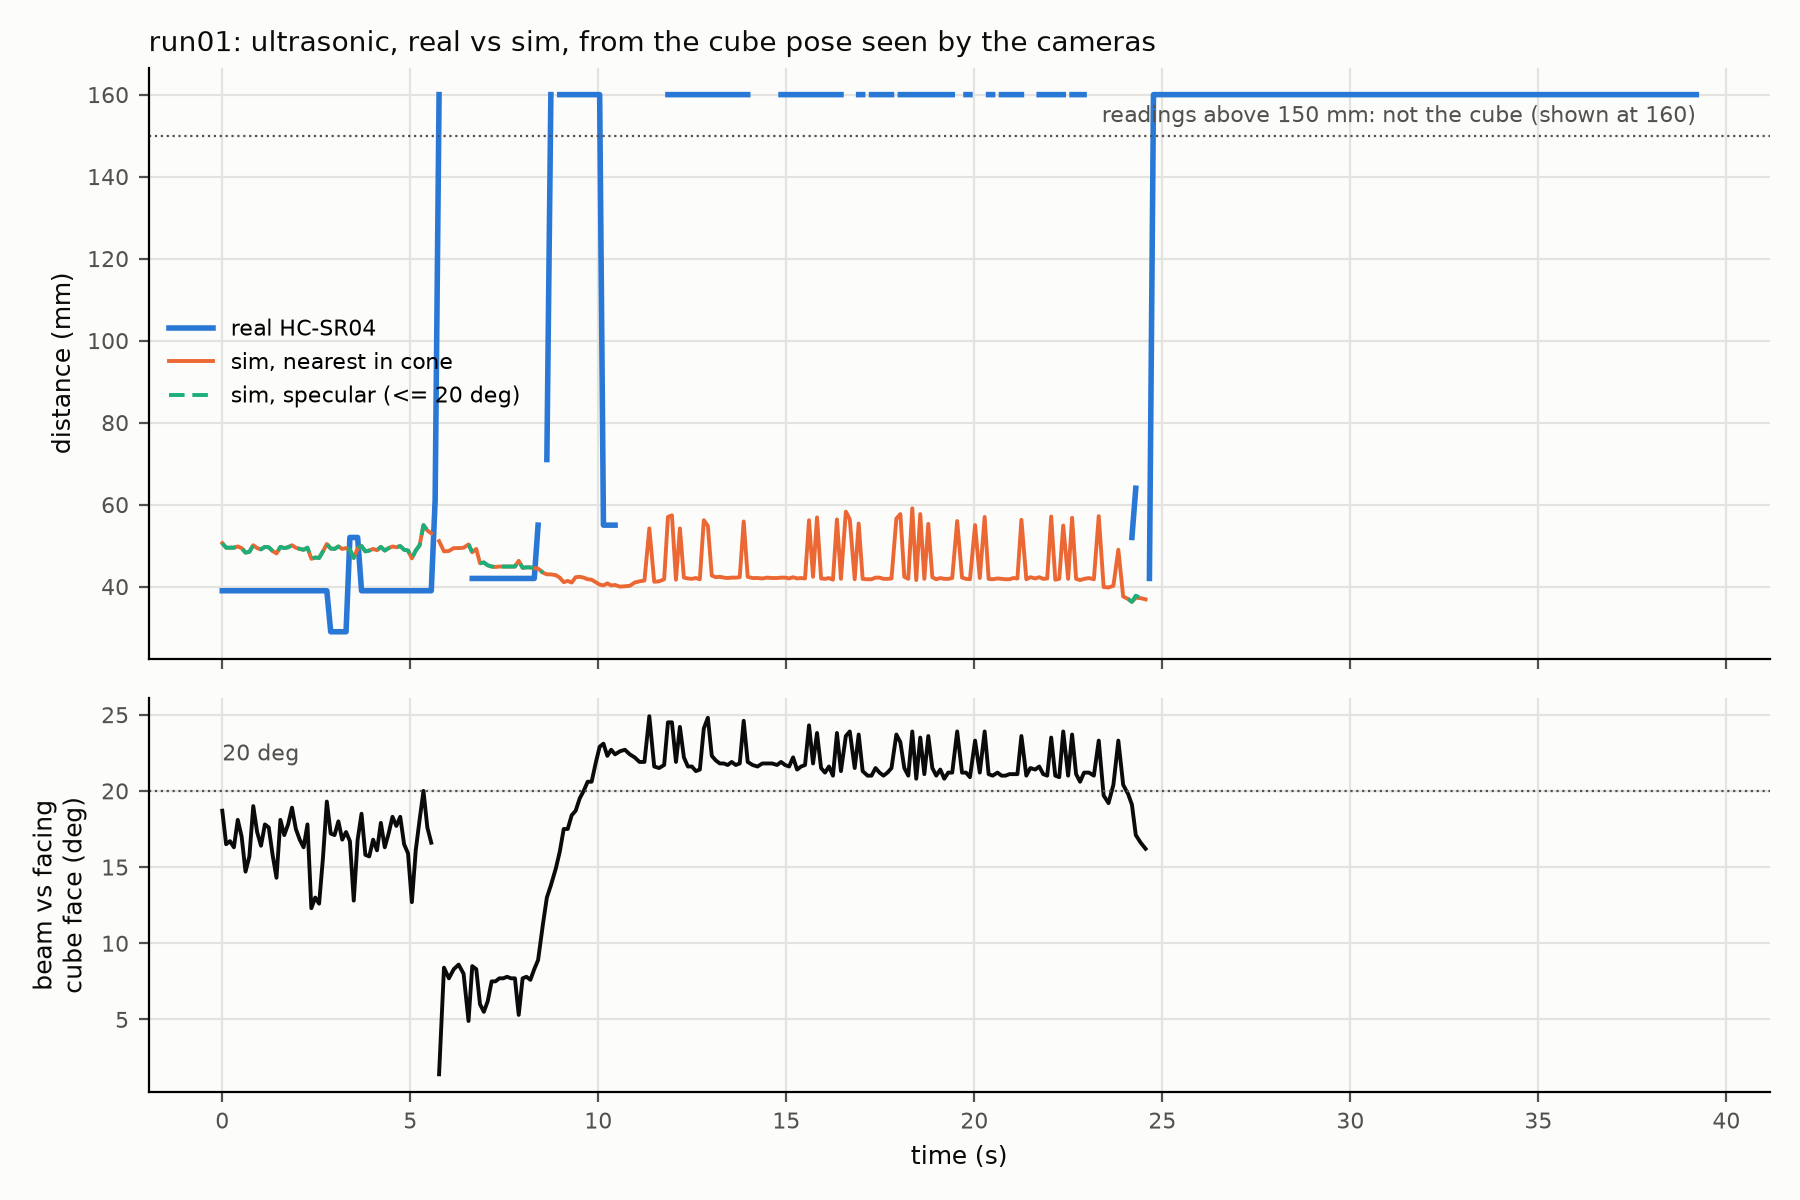
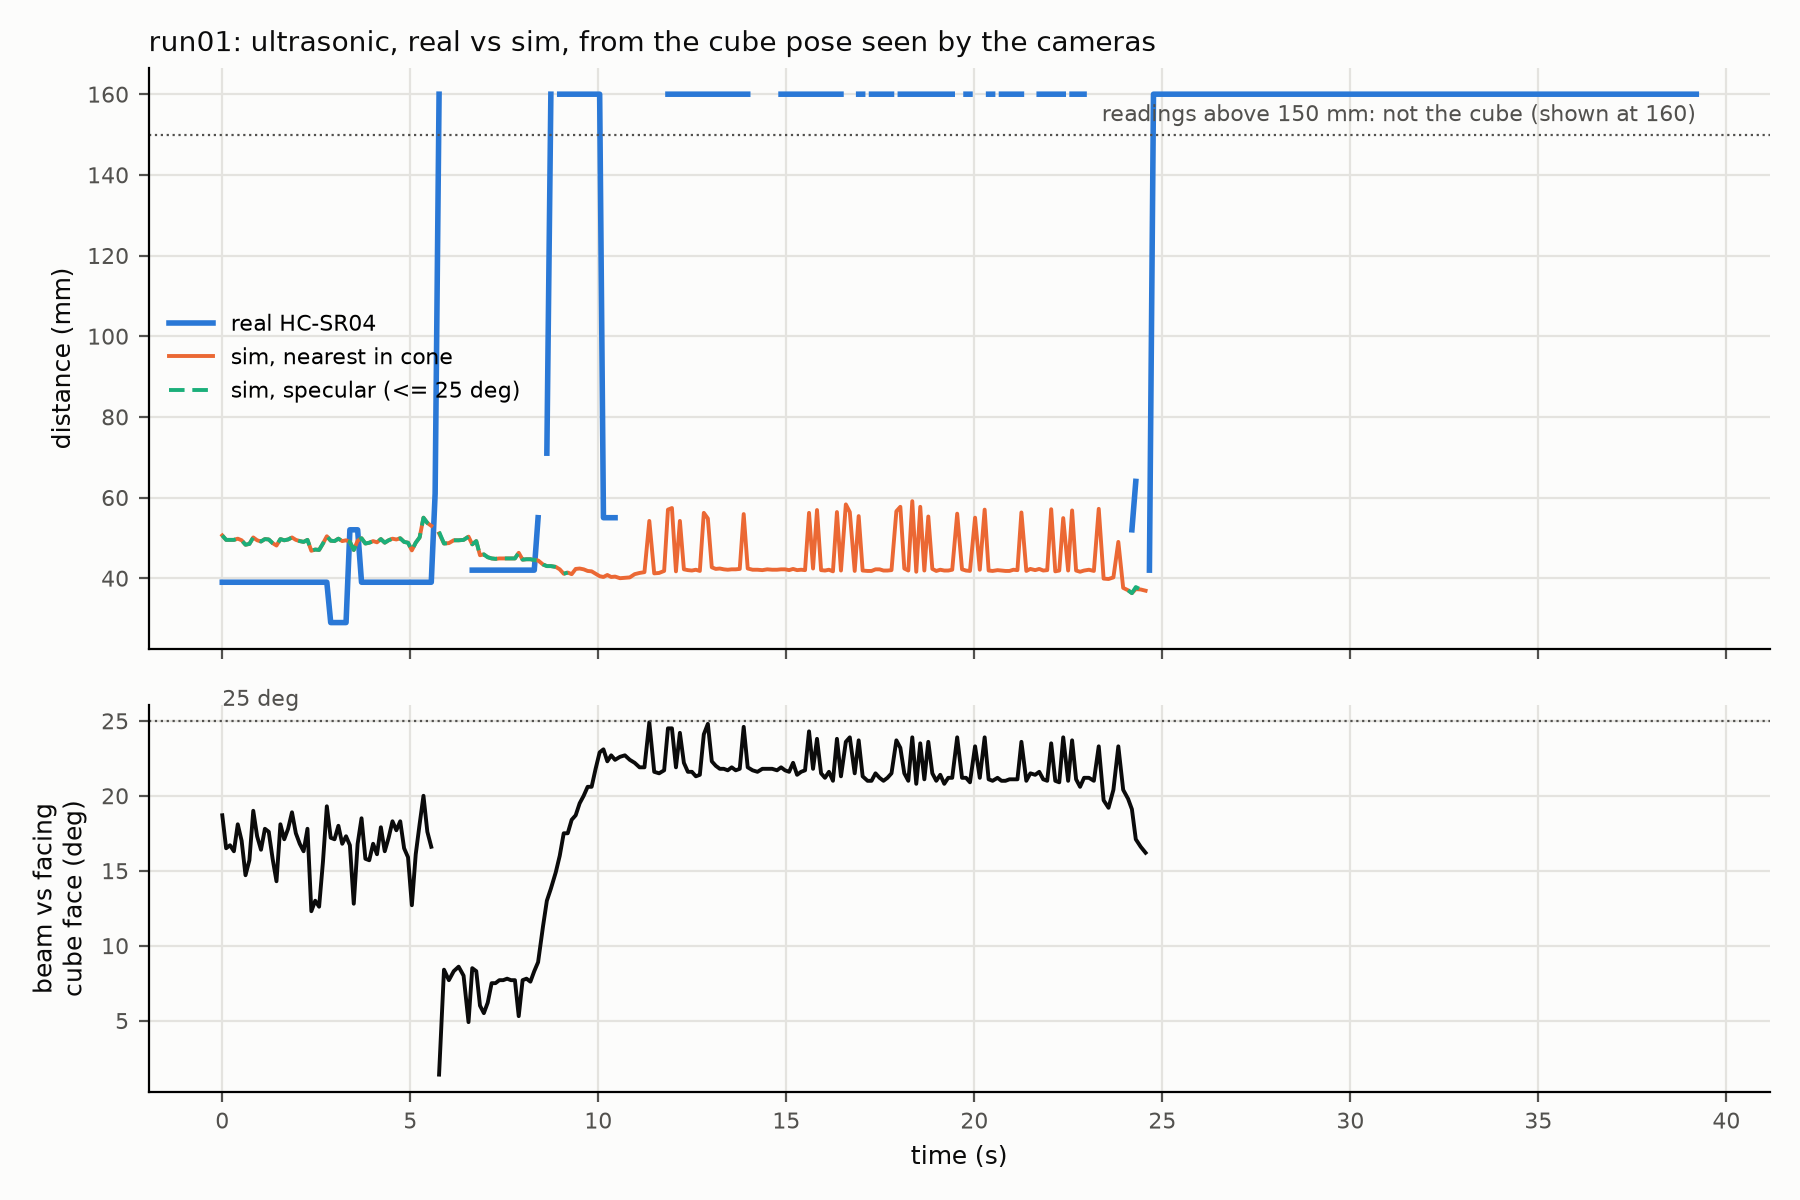
real2sim: ultrasonic incidence threshold from cube-turning recordings
- angle02 (cube turned by hand at ~7 cm): real sensor sees the cube 83% at
  10-20 deg, 39% at 25-30 deg, 4% at 35-40 deg; angle01 was in the dead
  zone (~2 cm) and is excluded (analysis drops readings < 25 mm)
- threshold_sweep.py over run01 + angle02: sees-cube agreement 88% at a
  25 deg per-ray limit (20 deg 81%, no limit 46%) -> rig.yaml
  ultrasonic.max_incidence_deg = 25, used by process.py
- datasets regenerated: run01 91%, angle02 88%; angle02 distances when
  both see the cube: median -0.1 mm, MAE 7.3 mm
- incidence_analysis.py figure, notes and HTML record updated

diff --git a/docs/real2sim_camera_calibration.html b/docs/real2sim_camera_calibration.html
@@ -444,6 +444,32 @@ footer { color: var(--muted); font-size: 13px; border-top: 1px solid var(--line)
     <li>阈值未被确定：倾斜阶段集中在 21–25°，能测到的阶段 ≤ 20°；θ = 18° / 20° / 22° 时一致率 86% / 88% / 50%，需要覆盖更多角度的数据。</li>
     <li>距离偏差 +10 mm：方块位置来自两相机融合，x 方向约 10 mm 系统偏差（两相机之间 5–10 mm 的不一致）；直接用 side 画面测距时误差在 ±4 mm 内。</li>
   </ul>
+  <h3>入射角阈值（angle01 / angle02）</h3>
+  <p>方块放在手掌上，用手捏住远离传感器的一侧，绕竖直方向在 ±45° 之间慢慢来回转，同步录 60 秒。angle01 作废：方块约 2 cm、大部分读数是盲区饱和值 17 / 20 mm（分析现在自动排除 &lt; 25 mm 的读数）。angle02：方块约 7 cm，真实读数中位数 74 mm。</p>
+  <div class="tbl"><table>
+    <tr><th>正对面与光束夹角</th><th>真实测到方块的比例</th></tr>
+    <tr><td>10–20°</td><td class="num">83%</td></tr>
+    <tr><td>20–25°</td><td class="num">71%</td></tr>
+    <tr><td>25–30°</td><td class="num">39%</td></tr>
+    <tr><td>35–40°</td><td class="num">4%</td></tr>
+  </table></div>
+  <figure>
+    <img src="figures/real2sim/angle02_timeline.png" alt="angle02 时间线" tabindex="0" loading="lazy">
+    <figcaption><b>图 K · angle02</b>。入射角超过阈值时真实读到远处，入射角模型判为无回波，最近距离模型仍以为测到方块。</figcaption>
+  </figure>
+  <figure>
+    <img src="figures/real2sim/incidence_angle02.png" alt="入射角与回波" tabindex="0" loading="lazy">
+    <figcaption><b>图 L</b>。左：各角度区间真实测到方块的比例；右："夹角 ≤ θ 才有回波"规则与真实的一致率。</figcaption>
+  </figure>
+  <div class="tbl"><table>
+    <tr><th>sim 射线阈值</th><th>run01（约 4 cm）</th><th>angle02（约 7 cm）</th><th>合计</th></tr>
+    <tr><td>15°</td><td class="num">94%</td><td class="num">63%</td><td class="num">72%</td></tr>
+    <tr><td>20°</td><td class="num">95%</td><td class="num">75%</td><td class="num">81%</td></tr>
+    <tr><td><b>25°</b></td><td class="num">90%</td><td class="num"><b>88%</b></td><td class="num"><b>88%</b></td></tr>
+    <tr><td>30°</td><td class="num">90%</td><td class="num">87%</td><td class="num">88%</td></tr>
+    <tr><td>不限制（最近距离）</td><td class="num">36%</td><td class="num">51%</td><td class="num">46%</td></tr>
+  </table></div>
+  <p>采用 <b>25°</b>（<code>rig.yaml</code> 的 <code>ultrasonic.max_incidence_deg</code>），样本内选出，需新数据验证。重新生成后：run01 一致 91%，angle02 一致 88%；都测到时 angle02 sim − 真实中位数 −0.1 mm（MAE 7.3 mm），run01 为 +9.8 mm（靠近手腕处两相机融合偏差更明显）。</p>
   <p>采集时注意：相机和串口同时只能被一个程序打开；不要大幅移动手腕，手和前臂塔上的传感器会一起移动，相机外参和传感器位置都会失效。</p>
 </section>
 

diff --git a/real2sim/ultrasonic/incidence_analysis.py b/real2sim/ultrasonic/incidence_analysis.py
@@ -1,0 +1,96 @@
+"""How the real HC-SR04 echo depends on the angle between the beam and the cube face.
+
+    python real2sim/ultrasonic/incidence_analysis.py angle01 [run01 ...]
+
+Reads real2sim/data/recordings/<name>/dataset.csv (process.py). Prints, per 5-degree bin of
+face_incidence_deg, how often the real sensor saw the cube (reading <= 150 mm), the
+agreement of a threshold rule "echo if incidence <= th" for each th, and writes
+docs/figures/real2sim/incidence_<names>.png.
+"""
+
+from __future__ import annotations
+
+import csv
+import sys
+from pathlib import Path
+
+import numpy as np
+
+HERE = Path(__file__).resolve().parent
+sys.path.insert(0, str(HERE.parent / "cameras"))
+import camlib as C  # noqa: E402
+
+BLUE, ORANGE, INK, INK2, GRID, SURF = "#2a78d6", "#eb6834", "#0b0b0b", "#52514e", "#e4e3df", "#fcfcfb"
+
+
+def main() -> None:
+    names = sys.argv[1:]
+    rows, dead = [], 0
+    for n in names:
+        for r in csv.DictReader(open(C.DATA_DIR / "recordings" / n / "dataset.csv", newline="")):
+            if r["cube_found"] != "1":
+                continue
+            # dead zone: below ~2.5 cm the sensor reports a constant 17-20 mm whatever the angle
+            if r["us_mm"] and float(r["us_mm"]) < 25:
+                dead += 1
+                continue
+            rows.append(r)
+    print(f"dropped {dead} samples in the sensor's dead zone (reading < 25 mm)")
+    if not rows:
+        raise SystemExit("nothing left outside the dead zone")
+    inc = np.array([float(r["face_incidence_deg"]) for r in rows])
+    sees = np.array([r["real_sees_cube"] == "1" for r in rows])
+    dist = np.array([float(r["us_mm"]) if r["us_mm"] else np.nan for r in rows])
+    print(f"{len(rows)} samples with the cube found ({', '.join(names)}); incidence {inc.min():.1f}..{inc.max():.1f} deg")
+    edges = np.arange(0, np.ceil(inc.max() / 5) * 5 + 5, 5)
+    centres, frac, counts = [], [], []
+    for lo, hi in zip(edges[:-1], edges[1:]):
+        sel = (inc >= lo) & (inc < hi)
+        if sel.sum():
+            centres.append((lo + hi) / 2)
+            frac.append(sees[sel].mean())
+            counts.append(int(sel.sum()))
+            print(f"  {lo:4.0f}-{hi:<3.0f} deg: n={sel.sum():4d}  real sees cube {sees[sel].mean():4.0%}")
+    ths = np.arange(2, 46, 1.0)
+    agr = np.array([np.mean((inc <= th) == sees) for th in ths])
+    best = ths[int(np.argmax(agr))]
+    good = ths[agr >= agr.max() - 0.02]
+    print(f"threshold rule 'echo if incidence <= th': best th = {best:.0f} deg (agreement {agr.max():.0%}); "
+          f"within 2 points of best: {good.min():.0f}..{good.max():.0f} deg")
+
+    import matplotlib
+    matplotlib.use("Agg")
+    import matplotlib.pyplot as plt
+    fig, (a1, a2) = plt.subplots(1, 2, figsize=(10, 4.2), dpi=200)
+    fig.patch.set_facecolor(SURF)
+    a1.bar(centres, np.array(frac) * 100, width=4.2, color=BLUE)
+    for c, f_, n in zip(centres, frac, counts):
+        a1.text(c, f_ * 100 + 2, f"n={n}", ha="center", fontsize=7, color=INK2)
+    a1.set_xlabel("beam vs facing cube face (deg)", color=INK, fontsize=9)
+    a1.set_ylabel("real sensor sees the cube (%)", color=INK, fontsize=9)
+    a1.set_ylim(0, 110)
+    a1.set_title("Echo from the cube vs incidence angle", loc="left", color=INK, fontsize=10)
+    a2.plot(ths, agr * 100, color=ORANGE, lw=2)
+    a2.axvline(best, color=INK2, lw=0.8, ls=":")
+    a2.text(best + 0.8, agr.min() * 100 + 2, f"best {best:.0f} deg", fontsize=8, color=INK2)
+    a2.set_xlabel("threshold th (deg)", color=INK, fontsize=9)
+    a2.set_ylabel("rule 'echo if angle <= th' agrees (%)", color=INK, fontsize=9)
+    a2.set_title("Choosing the sim threshold", loc="left", color=INK, fontsize=10)
+    for ax in (a1, a2):
+        ax.set_facecolor(SURF)
+        ax.grid(color=GRID, lw=0.8)
+        ax.set_axisbelow(True)
+        for s in ("top", "right"):
+            ax.spines[s].set_visible(False)
+        ax.tick_params(colors=INK2, labelsize=8)
+    fig.tight_layout()
+    out = C.REPO_ROOT / "docs" / "figures" / "real2sim" / f"incidence_{'_'.join(names)}.png"
+    fig.savefig(out, facecolor=SURF)
+    print("wrote", out)
+    seen = sees & ~np.isnan(dist)
+    if seen.any():
+        print(f"when the real sensor sees the cube: reading {np.nanmedian(dist[seen]):.0f} mm median")
+
+
+if __name__ == "__main__":
+    main()

diff --git a/real2sim/recording/process.py b/real2sim/recording/process.py
@@ -13,8 +13,8 @@ Columns of dataset.csv:
   green_up_deg        angle between the green face (sim red face) normal and world up
   face_incidence_deg  angle between the ultrasonic beam and the cube face that faces it
   sim_nearest_mm      sim: nearest hit in the 15 deg cone (calibrated offset / dead zone)
-  sim_specular_mm     sim: same, but a ray only echoes if it meets the face within 20 deg
-                      of its normal (empty = no echo)
+  sim_specular_mm     sim: same, but a ray only echoes if it meets the face within
+                      rig.yaml ultrasonic.max_incidence_deg (25) of its normal (empty = no echo)
   real_sees_cube, sim_nearest_sees_cube, sim_specular_sees_cube     reading <= 150 mm
 The sim rays only see the cube (the sim hand is in its default pose, not the real one).
 """
@@ -94,7 +94,7 @@ def main() -> None:
             d.qpos[j + 3:j + 7] = q
             mujoco.mj_forward(m, d)
             near = C.ultrasonic_reading_specular(m, d, us_cfg, 90.0, hand_bodies)
-            spec = C.ultrasonic_reading_specular(m, d, us_cfg, 20.0, hand_bodies)
+            spec = C.ultrasonic_reading_specular(m, d, us_cfg, us_cfg.get("max_incidence_deg", 25.0), hand_bodies)
             row.update({
                 "cube_x": f"{T[0, 3]:.4f}", "cube_y": f"{T[1, 3]:.4f}", "cube_z": f"{T[2, 3]:.4f}",
                 "cube_qw": f"{q[0]:.4f}", "cube_qx": f"{q[1]:.4f}", "cube_qy": f"{q[2]:.4f}", "cube_qz": f"{q[3]:.4f}",
@@ -154,15 +154,16 @@ def main() -> None:
     fig.patch.set_facecolor(SURF)
     a1.plot(tt, series("us_mm", 160), color=BLUE, lw=2, label="real HC-SR04")
     a1.plot(tt, series("sim_nearest_mm", 160), color=ORANGE, lw=1.4, label="sim, nearest in cone")
-    a1.plot(tt, series("sim_specular_mm", 160), color=AQUA, lw=1.4, ls=(0, (4, 2)), label="sim, specular (<= 20 deg)")
+    a1.plot(tt, series("sim_specular_mm", 160), color=AQUA, lw=1.4, ls=(0, (4, 2)), label=f"sim, specular (<= {us_cfg.get('max_incidence_deg', 25):g} deg)")
     a1.axhline(SEES_MM, color=INK2, lw=0.8, ls=":")
     a1.text(tt[-1], SEES_MM + 2, "readings above 150 mm: not the cube (shown at 160)", ha="right", va="bottom",
             fontsize=8, color=INK2)
     a1.set_ylabel("distance (mm)", color=INK, fontsize=9)
     a1.legend(frameon=False, fontsize=8, loc="center left")
     a2.plot(tt, series("face_incidence_deg"), color=INK, lw=1.4)
-    a2.axhline(20, color=INK2, lw=0.8, ls=":")
-    a2.text(tt[0], 22, "20 deg", fontsize=8, color=INK2)
+    th = us_cfg.get("max_incidence_deg", 25)
+    a2.axhline(th, color=INK2, lw=0.8, ls=":")
+    a2.text(tt[0], th + 1, f"{th:g} deg", fontsize=8, color=INK2)
     a2.set_ylabel("beam vs facing\ncube face (deg)", color=INK, fontsize=9)
     a2.set_xlabel("time (s)", color=INK, fontsize=9)
     for ax in (a1, a2):

diff --git a/real2sim/ultrasonic/threshold_sweep.py b/real2sim/ultrasonic/threshold_sweep.py
@@ -1,0 +1,56 @@
+"""Sweep the sim specular threshold (per ray) against recorded datasets.
+
+    python real2sim/ultrasonic/threshold_sweep.py run01 angle02
+
+For every row with a cube pose, the sim cube is placed at that pose and the specular sim
+reading is computed for several max_incidence_deg values; prints the sees-cube agreement
+with the real sensor (dead-zone readings < 25 mm excluded) per dataset and pooled.
+"""
+
+from __future__ import annotations
+
+import csv
+import sys
+from pathlib import Path
+
+import mujoco
+import numpy as np
+
+HERE = Path(__file__).resolve().parent
+sys.path.insert(0, str(HERE.parent / "cameras"))
+import camlib as C  # noqa: E402
+
+THS = [15, 20, 25, 27, 30, 35, 90]
+
+
+def main() -> None:
+    rig = C.load_rig(C.HERE / "rig.yaml")
+    m = mujoco.MjModel.from_xml_path(str((C.SCENES_DIR / rig["scene"].replace(".xml", "_real2sim.xml")).resolve()))
+    d = mujoco.MjData(m)
+    j = m.joint("cube_freejoint").qposadr[0]
+    cube = m.body("task_cube").id
+    hand = {b for b in range(1, m.nbody) if b != cube}
+    pooled = {th: [0, 0] for th in THS}
+    for name in sys.argv[1:]:
+        agree = {th: 0 for th in THS}
+        n = 0
+        for r in csv.DictReader(open(C.DATA_DIR / "recordings" / name / "dataset.csv", newline="")):
+            if r["cube_found"] != "1" or (r["us_mm"] and float(r["us_mm"]) < 25):
+                continue
+            d.qpos[j:j + 3] = [float(r[k]) for k in ("cube_x", "cube_y", "cube_z")]
+            d.qpos[j + 3:j + 7] = [float(r[k]) for k in ("cube_qw", "cube_qx", "cube_qy", "cube_qz")]
+            mujoco.mj_forward(m, d)
+            real = r["real_sees_cube"] == "1"
+            n += 1
+            for th in THS:
+                s = C.ultrasonic_reading_specular(m, d, rig["ultrasonic"], th, hand)
+                agree[th] += int((s is not None and s * 1000 <= 150) == real)
+        print(f"{name} ({n} samples): " + "  ".join(f"{th}deg {agree[th] / n:.0%}" for th in THS))
+        for th in THS:
+            pooled[th][0] += agree[th]
+            pooled[th][1] += n
+    print("pooled: " + "  ".join(f"{th}deg {a / t:.0%}" for th, (a, t) in pooled.items()) + "   (90deg = nearest model)")
+
+
+if __name__ == "__main__":
+    main()

diff --git a/docs/real2sim_camera_calibration.md b/docs/real2sim_camera_calibration.md
@@ -392,7 +392,38 @@ T_world_cam = T_world_board · T_board_cam
 - 阈值没有被这次数据确定：倾斜阶段的夹角集中在 21–25°，能测到方块的阶段都 ≤ 20°。只用"正对面夹角 ≤ θ"判断，θ = 18° 时一致 86%，20° 时 88%，22° 时 50%。需要覆盖更多角度的数据。
 - 距离偏差 +10 mm：这里方块位置来自两个相机的融合，x 方向有约 10 mm 的系统偏差（与 8.5 节两相机之间 5–10 mm 的不一致同源）；8.3 节直接用 side 画面测距时误差在 ±4 mm 内。
 
-### 8.7 采集注意事项
+### 8.7 入射角阈值（angle01 / angle02）
+
+方块放在手掌上，用手捏住方块远离传感器的一侧，绕竖直方向在 ±45° 之间慢慢来回转动，同步录 60 秒（`real2sim/ultrasonic/incidence_analysis.py`、`threshold_sweep.py`）。
+
+- **angle01 作废**：方块离传感器太近（约 2 cm），大部分读数是盲区饱和值 17 / 20 mm（213 个），与角度无关。分析脚本现在自动排除读数 < 25 mm 的样本。
+- **angle02**（方块在手掌远端，约 7 cm，真实读数中位数 74 mm，无盲区样本）：
+
+| 正对面与光束夹角 | 真实传感器测到方块的比例 |
+|---|---|
+| 10–20° | 83% |
+| 20–25° | 71% |
+| 25–30° | 39% |
+| 35–40° | 4% |
+
+![图 K：angle02 时间线。入射角超过阈值时真实传感器读到远处，入射角模型判为无回波，最近距离模型仍以为测到方块](figures/real2sim/angle02_timeline.png)
+
+![图 L：左：各角度区间真实传感器测到方块的比例；右："夹角 ≤ θ 才有回波"规则与真实的一致率](figures/real2sim/incidence_angle02.png)
+
+**sim 射线阈值的选择**（每条射线的入射角，盲区样本排除）：
+
+| 阈值 | run01（约 4 cm） | angle02（约 7 cm） | 合计 |
+|---|---|---|---|
+| 15° | 94% | 63% | 72% |
+| 20° | 95% | 75% | 81% |
+| **25°** | 90% | **88%** | **88%** |
+| 30° | 90% | 87% | 88% |
+| 不限制（最近距离） | 36% | 51% | 46% |
+
+- 采用 **25°**（`rig.yaml` 的 `ultrasonic.max_incidence_deg`），两组数据都在 88–91%。这是在这两组数据上选出来的（样本内），需要新数据验证。
+- 用 25° 重新生成的数据表：run01 一致 91%（202/223），angle02 一致 88%（469/535）。都测到方块时，angle02 的 sim − 真实中位数 −0.1 mm、平均绝对误差 7.3 mm；run01（方块靠近手腕，约 4 cm）为 +9.8 mm，两相机融合的位置偏差在靠近手腕处更明显。
+
+### 8.8 采集注意事项
 
 - 一个相机或串口同时只能被一个程序打开；预览窗口或串口监视器没关时，采集会卡住。
 - 不要大幅移动手腕：手和装在前臂塔上的传感器都会跟着移动，相机外参和传感器位置就会失效。
